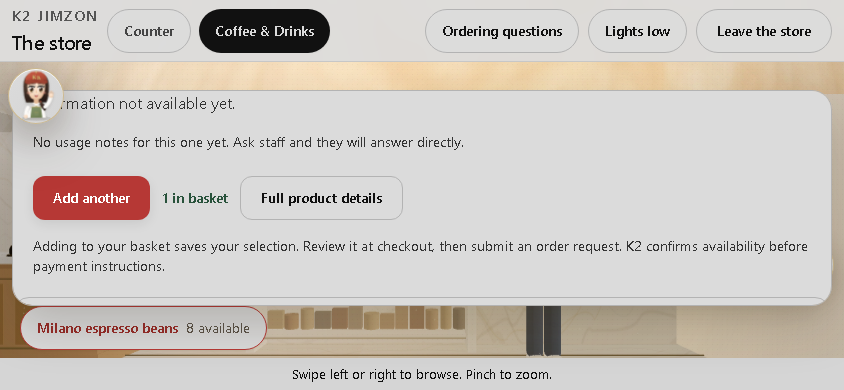
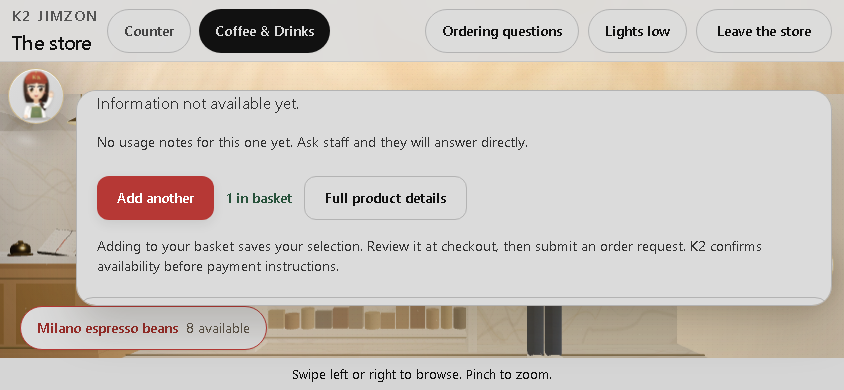
fix(store): clear mobile shopkeeper toggle from product popup pointer interception

Changed region(s): [[0.0, 0.2154, 0.955, 0.8308], [0.6161, 0.8, 0.6469, 0.9231], [0.4929, 0.8, 0.5237, 0.8308]]

diff --git a/src/interactive-store.css b/src/interactive-store.css
@@ -1486,7 +1486,7 @@
 
 @media (max-width: 900px) {
   .k2-store-product-popup {
-    left: 0.75rem;
+    left: calc(3.5rem + 1.25rem);
     right: 0.75rem;
     width: auto;
     transform: none;
